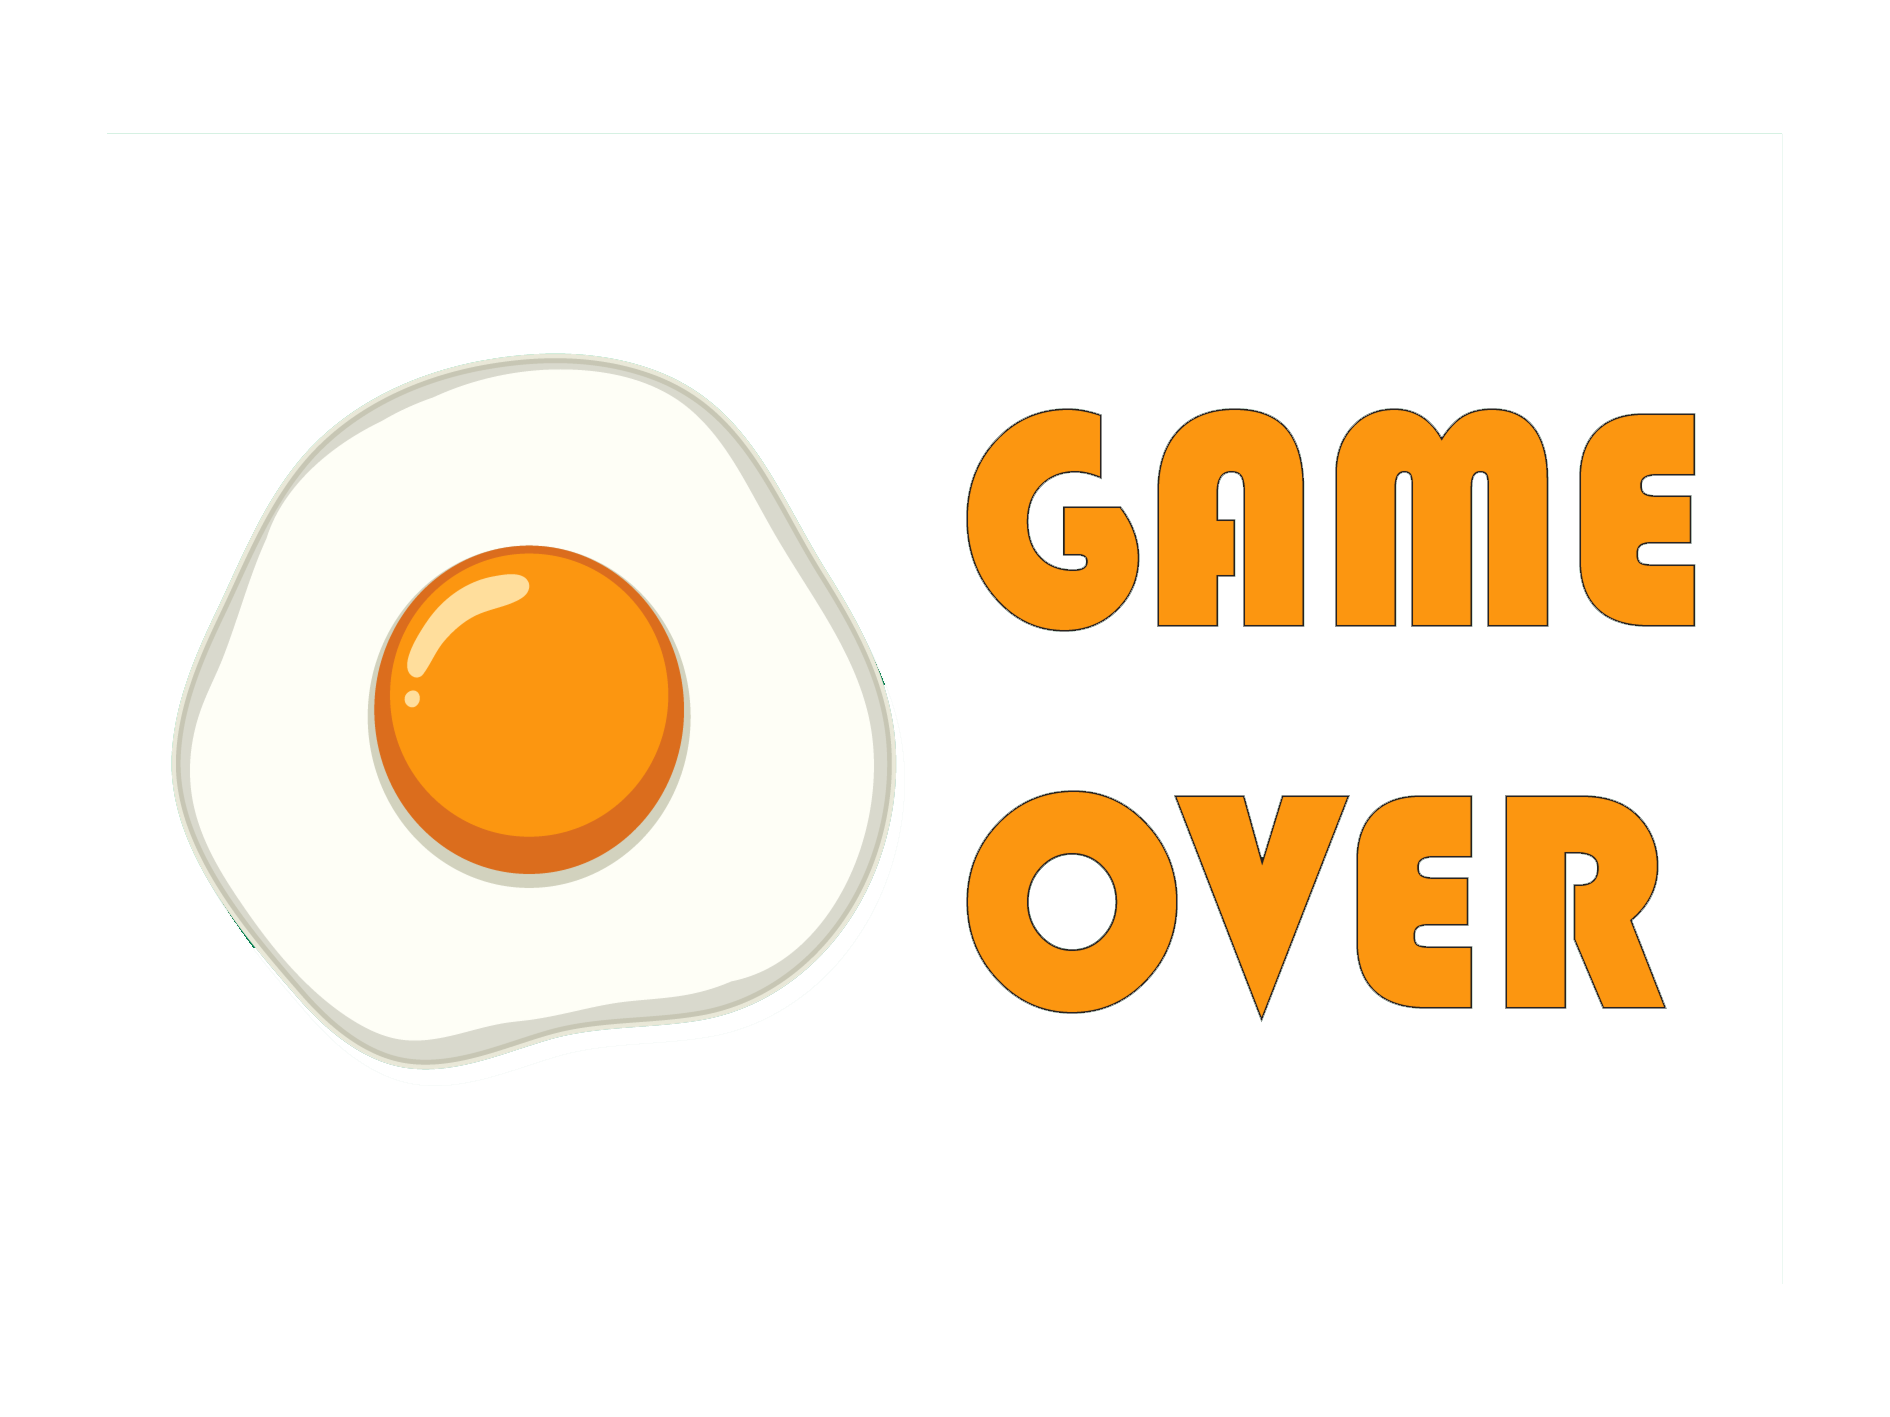
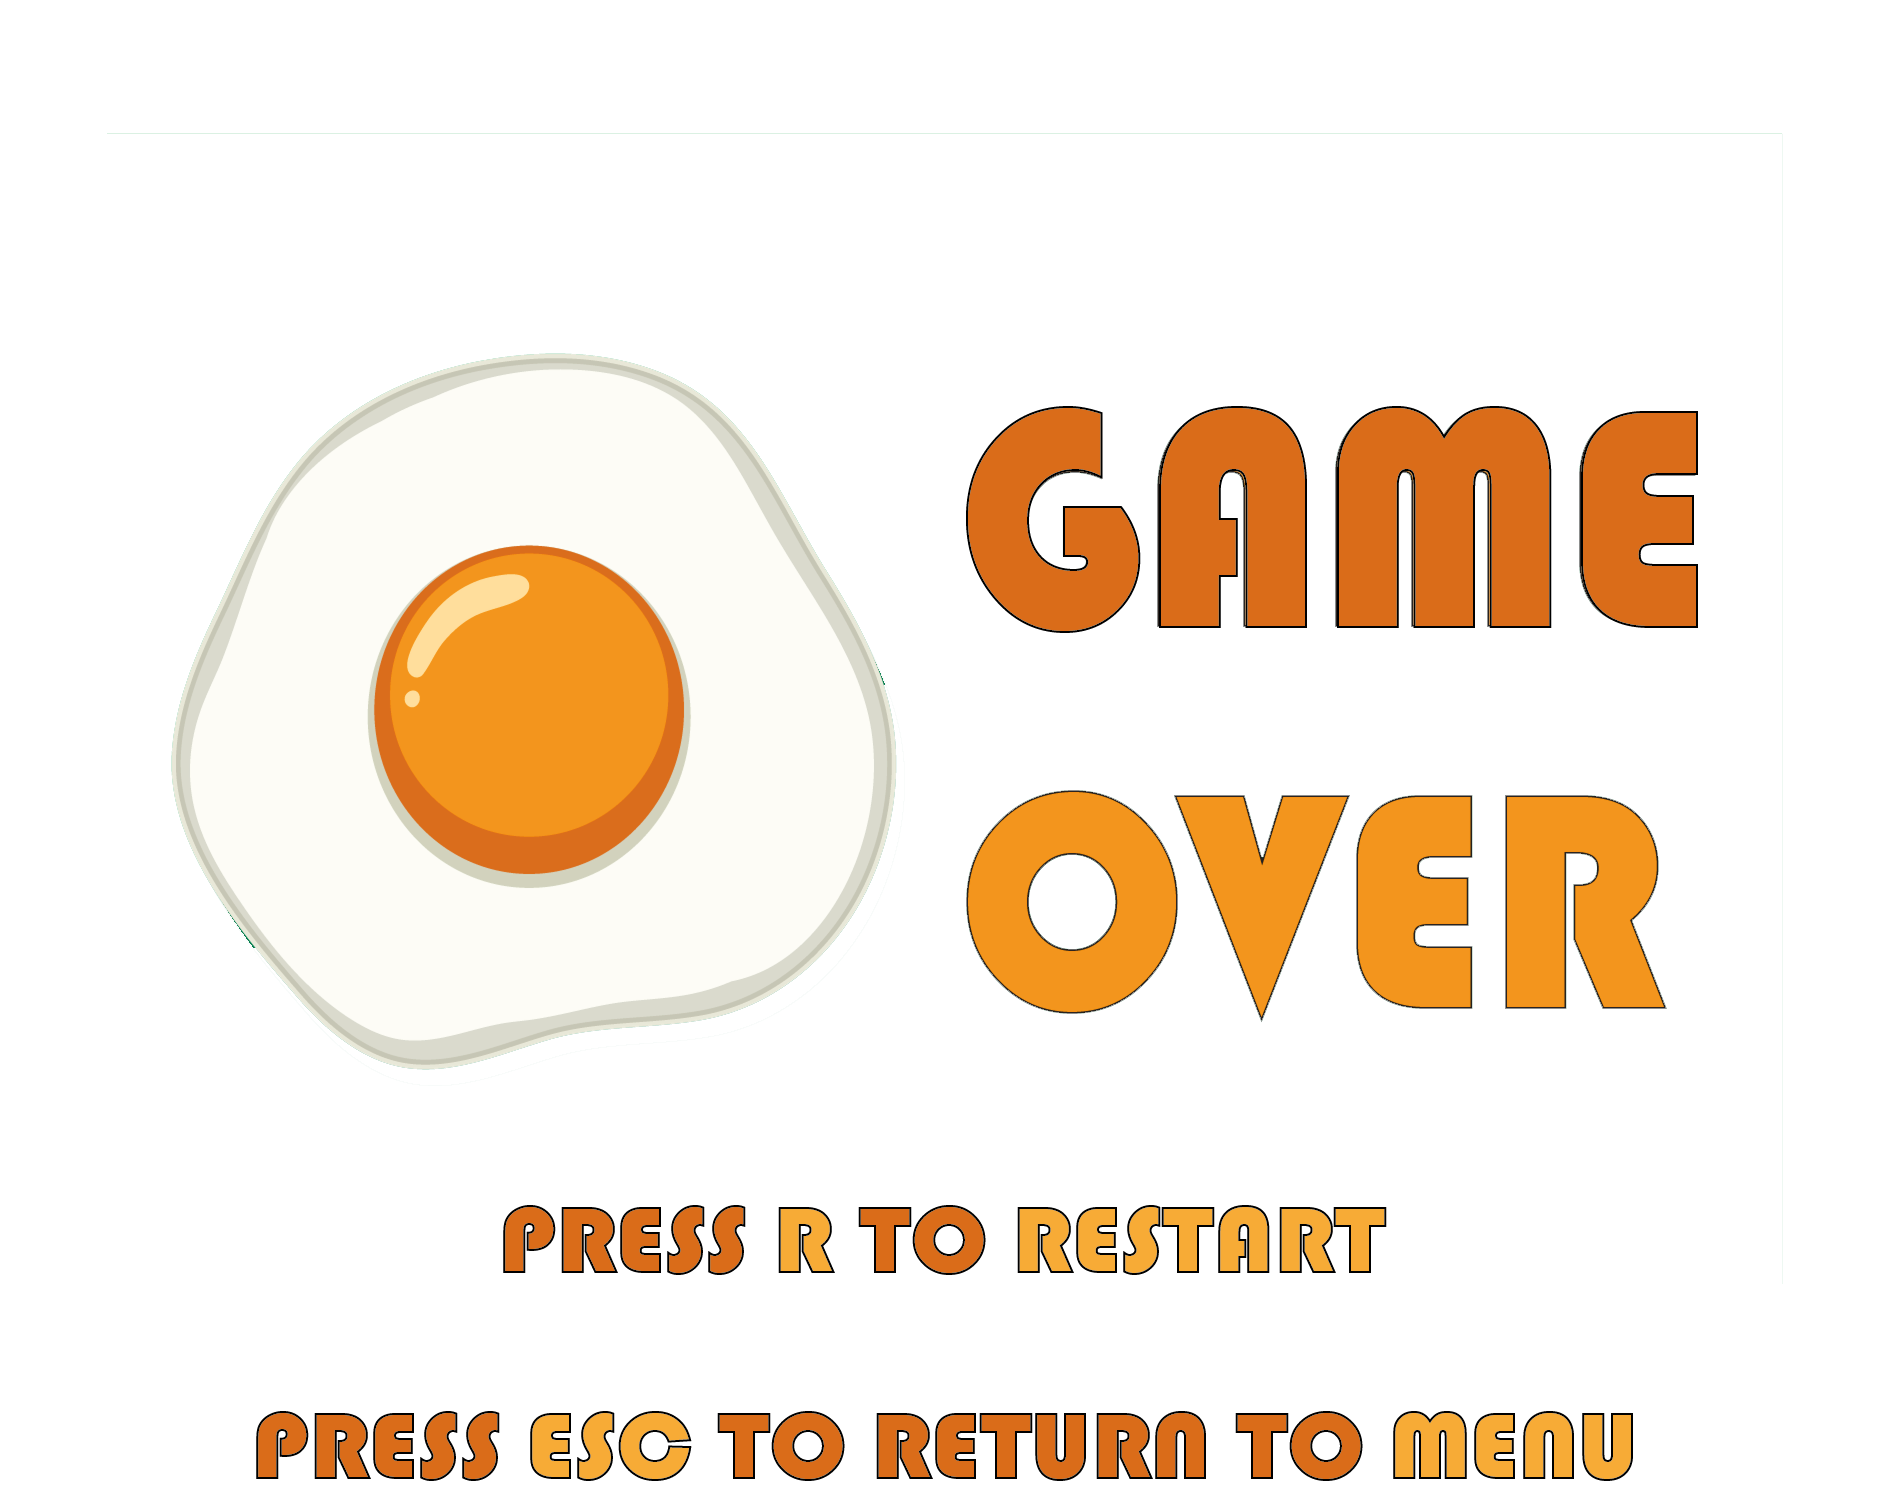
edit style and add photo

diff --git a/src/ProjectJogal/MainEventListener.java b/src/ProjectJogal/MainEventListener.java
@@ -23,6 +23,7 @@ import javax.sound.sampled.UnsupportedAudioFileException;
 
 public class MainEventListener implements GLEventListener, KeyListener, MouseListener {
     int chickenIndex = 0;
+    int startMenuIndex = 10;
     int RepeatCounter = 0;
     int gameOverIndex = 8;
     int NumberChicken = 5;
@@ -41,7 +42,7 @@ public class MainEventListener implements GLEventListener, KeyListener, MouseLis
     int heartIndex = 7;
 
     String assetsFolderName = "Assets";
-    String textureNames[] = {"Chicken1.png", "Chicken2.png", "Basket.png", "Treebranch.png", "Egg1.png", "Egg2.png", "Egg3.png", "Health.png","gameover.png", "Background2.png","Intro.png","Background1.png", "StartButton.png","Background2.png","instructions.png","exit.png","Background2.png"};
+    String textureNames[] = {"Chicken1.png", "Chicken2.png", "Basket.png", "Treebranch.png", "Egg1.png", "Egg2.png", "Egg3.png", "Health.png","gameover.png", "Background2.png","Intro.png","Background1.png", "StartButton.png","Background2.png","instructions.png","exit.png","Score.png","Background2.png"};
     TextureReader.Texture texture[] = new TextureReader.Texture[textureNames.length];
     int textures[] = new int[textureNames.length];
     int BasketIndex = 2;
@@ -51,8 +52,9 @@ public class MainEventListener implements GLEventListener, KeyListener, MouseLis
     private Clip gameOverMusic;
     private boolean isStartButtonClicked = false;
     private int startButtonIndex =12;
-    int instructionButtonIndex = 14; 
+    int instructionButtonIndex = 14;  
     int exitButtonIndex = 15; 
+    int ScoreIndex = 16;
     private int startButtonX = 40;
     private int startButtonWidth = 20;
     private int startButtonHeight = 10;
@@ -63,11 +65,11 @@ public class MainEventListener implements GLEventListener, KeyListener, MouseLis
     private int buttonSpacing = 5; 
     private int startMenuCenterX = 50; 
     private int startButtonY = 60;
-    private int instructionButtonY = 45;
-    private int exitButtonY = 30;
+    private int instructionButtonY = 40;
+    private int exitButtonY = 20;
 
     // Calculate X position to center the buttons
-    private int buttonsX = startMenuCenterX - (buttonWidth / 2);
+    private int buttonsX = 45;
     @Override
     public void init(GLAutoDrawable glAutoDrawable) {
         GL gl = glAutoDrawable.getGL();
@@ -131,7 +133,7 @@ public class MainEventListener implements GLEventListener, KeyListener, MouseLis
                     
                     
                      if (egg.y < 0) {
-                    Speed-=70;
+//                    Speed-=70;
                    Remove.add(egg);
                     health--; 
                 }
@@ -146,7 +148,7 @@ public class MainEventListener implements GLEventListener, KeyListener, MouseLis
                    Remove.add(egg);
                    score++;
                 }
-//               
+//              
                 }
 
                 Eggs.removeAll(Remove);
@@ -188,9 +190,11 @@ public class MainEventListener implements GLEventListener, KeyListener, MouseLis
         gl.glPushAttrib(GL_CURRENT_BIT);
         gl.glColor4f(0f, 0f, 0f, 1.0f);
         GLUT glut = new GLUT();
-        gl.glRasterPos2d(-0.1, 0.9);
-        glut.glutBitmapString(GLUT.BITMAP_TIMES_ROMAN_24, "Score : " + score);
+        gl.glRasterPos2d(.13, 0.93);
+        
+        glut.glutBitmapString(GLUT.BITMAP_TIMES_ROMAN_24,"" + score);
         gl.glPopAttrib();
+         DrawSprite(gl, 45, 91, ScoreIndex,2 , 0);
     }
     
     
@@ -204,22 +208,23 @@ public class MainEventListener implements GLEventListener, KeyListener, MouseLis
 
     public void DrawStartMenu(GL gl) {
         gl.glEnable(GL.GL_BLEND);
-        int startMenuIndex = 10;
-        DrawSprite(gl, 30, 47, startMenuIndex, 13, 0);
-        DrawSprite(gl, buttonsX, startButtonY, startButtonIndex, 2, 0);
+       
+        DrawSprite(gl,45 ,45, startMenuIndex, 10, 0);
+        DrawSprite(gl, buttonsX, startButtonY, startButtonIndex, 1.5, 0);
         DrawSprite(gl, buttonsX, instructionButtonY, instructionButtonIndex, 2, 0);
-        DrawSprite(gl, buttonsX, exitButtonY, exitButtonIndex, 2, 0);
+        DrawSprite(gl, buttonsX, exitButtonY, exitButtonIndex, 1.4, 0);
+ 
         gl.glDisable(GL.GL_BLEND);
     }
 
     public void DrawHealth(GL gl) {
         for (int i = 0; i < health; i++) {
-            DrawSprite(gl, 5 + i * 10, 90, heartIndex, 1, 0);
+            DrawSprite(gl,  i * 5, 90, heartIndex, 1, 0);
         }
     }
 
     public void DrawGameOver(GL gl) {
-        DrawSprite(gl, 40, 50, gameOverIndex, 8, 0);
+        DrawSprite(gl, 45, 60, gameOverIndex, 8, 0);
 
         stopBackgroundMusic();
         if (gameOverMusic == null) {
